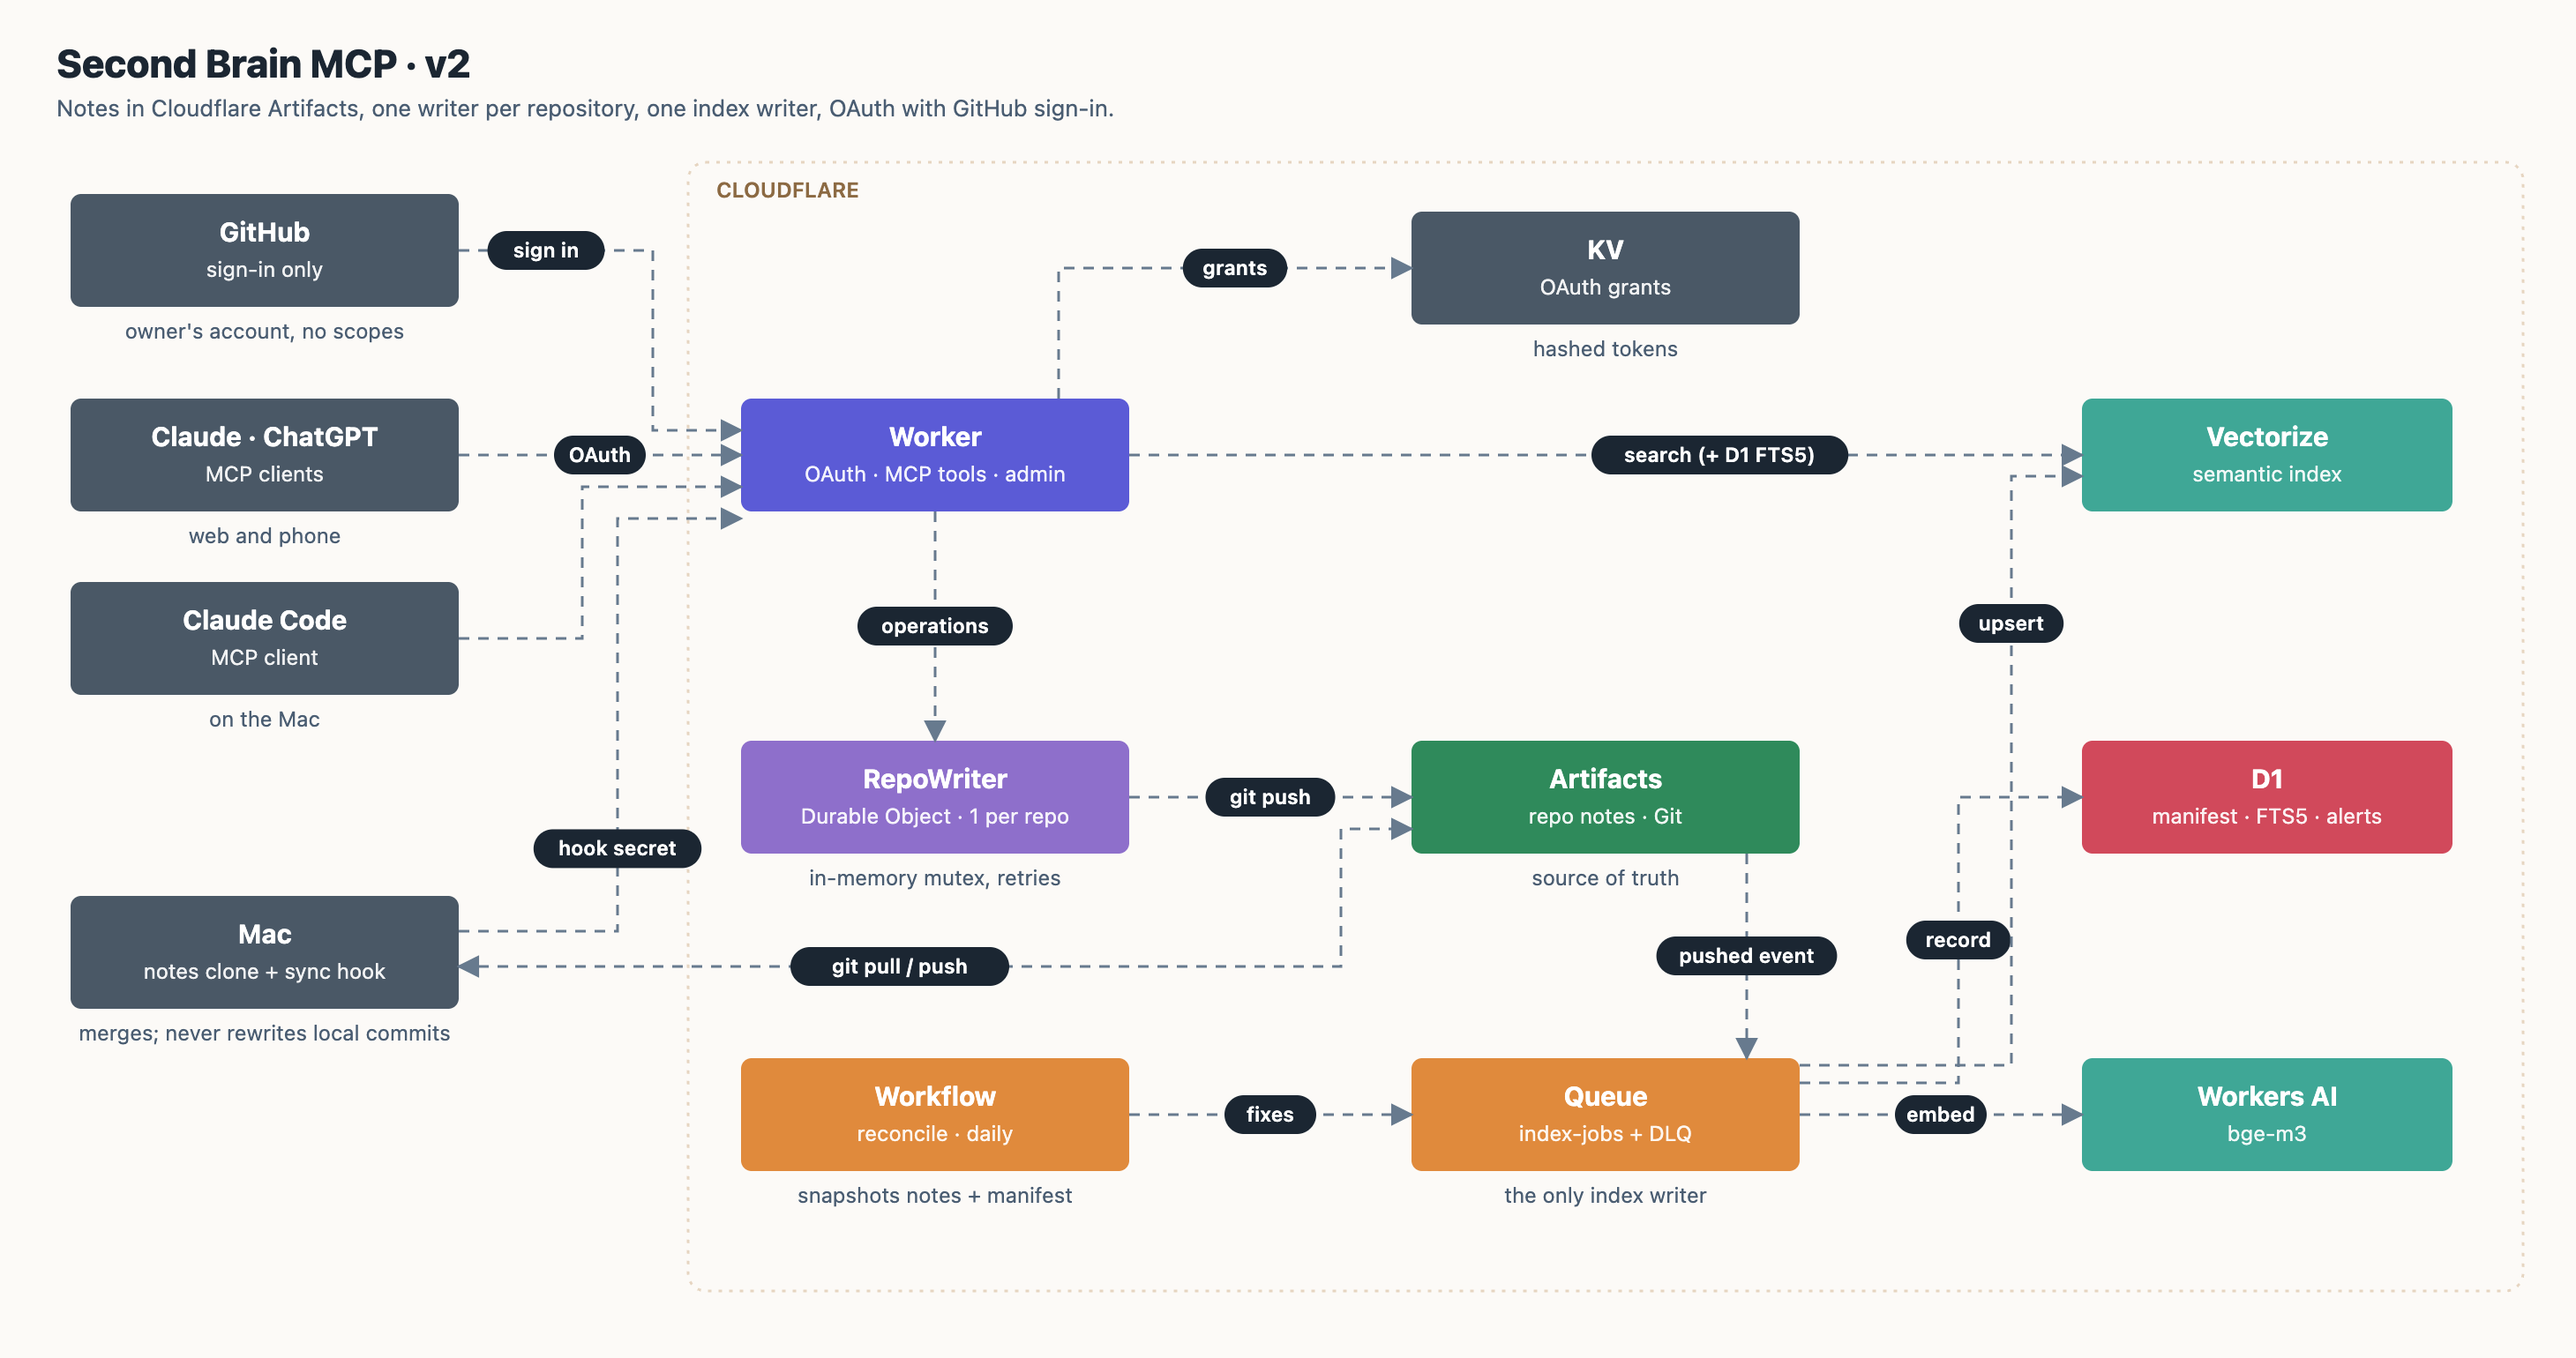
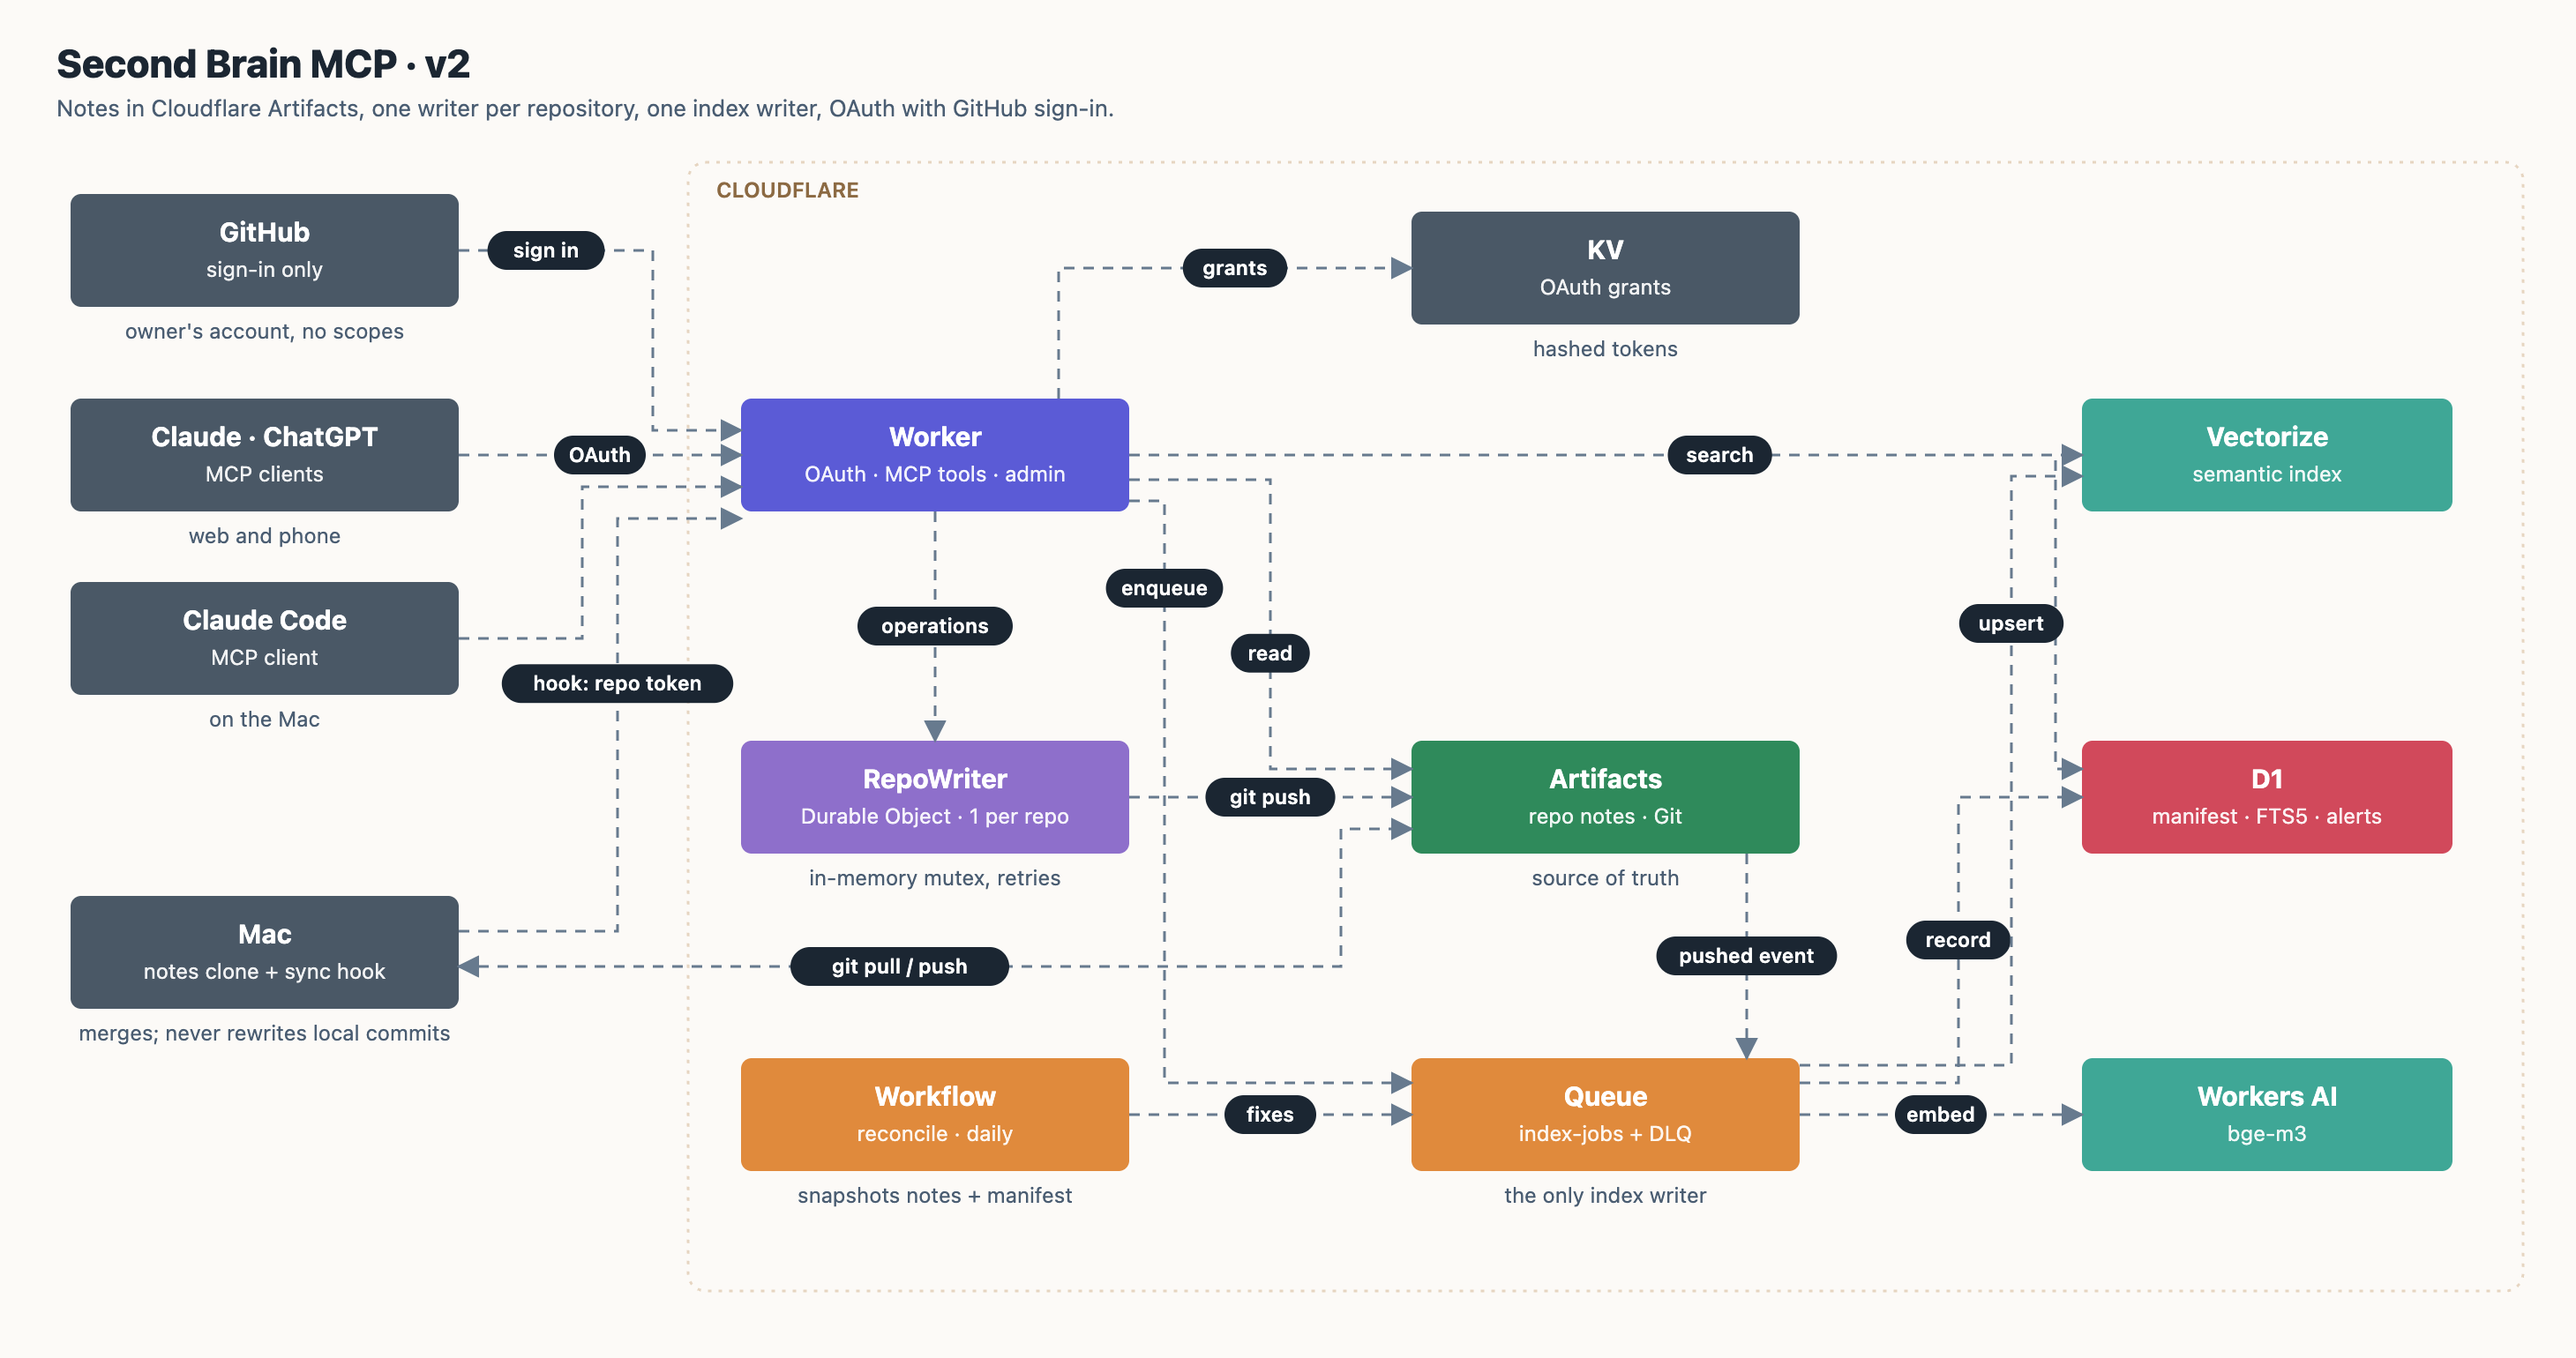
Docs: complete the v2 map and fix wording (review)
v2 map: Worker -> Queue (every write enqueues), Worker -> Artifacts
(reads through the binding), Worker -> D1 (keyword search), and what the
hook gets. CHANGELOG: the redirect allowlist described accurately. v1
'keyword' cell explained; p50 of 10 runs; at-scale wording; v1 map notes
the old names.

diff --git a/docs/architecture/draw.py b/docs/architecture/draw.py
@@ -48,7 +48,7 @@ v1 = []
 v1.append(box(40, 226, "Claude · ChatGPT", "MCP clients", "slate", "web and phone"))
 v1.append(box(40, 330, "Claude Code", "MCP client", "slate", "on the Mac"))
 v1.append(box(40, 508, "Mac", "notes clone + hooks", "slate", "pull on prompts, push after answers"))
-v1.append(box(420, 226, "Worker", "cerebro-mcp · 9 tools", "indigo"))
+v1.append(box(420, 226, "Worker", "cerebro-mcp · 9 tools", "indigo", "v1 names, renamed in v2"))
 v1.append(box(800, 226, "GitHub repo", "segundo-cerebro", "green", "source of truth · REST API"))
 v1.append(box(800, 420, "Workers AI", "bge-m3 embeddings", "teal"))
 v1.append(box(800, 600, "Vectorize", "semantic index", "teal", "derived, rebuildable"))
@@ -83,10 +83,13 @@ v2.append(box(D, 600, "Workers AI", "bge-m3", "teal", w=210))
 v2.append(arrow([(260, 258), (420, 258)], "OAuth"))
 v2.append(arrow([(260, 362), (330, 362), (330, 276), (420, 276)]))
 v2.append(arrow([(260, 142), (370, 142), (370, 244), (420, 244)], "sign in", at=0.45))
-v2.append(arrow([(260, 528), (350, 528), (350, 294), (420, 294)], "hook secret", at=0.2))
+v2.append(arrow([(260, 528), (350, 528), (350, 294), (420, 294)], "hook: repo token", at=0.6))
 # from the Worker
 v2.append(arrow([(600, 226), (600, 152), (800, 152)], "grants", at=0.5))
-v2.append(arrow([(640, 258), (1180, 258)], "search (+ D1 FTS5)", at=0.62))
+v2.append(arrow([(640, 258), (1165, 258), (1165, 436), (1180, 436)]))
+v2.append(arrow([(640, 258), (1180, 258)], "search", at=0.62))
+v2.append(arrow([(640, 272), (720, 272), (720, 436), (800, 436)], "read", at=0.6))
+v2.append(arrow([(640, 284), (660, 284), (660, 614), (800, 614)], "enqueue", at=0.15))
 v2.append(arrow([(530, 290), (530, 420)], "operations"))
 # writes, events, indexing
 v2.append(arrow([(640, 452), (800, 452)], "git push"))

diff --git a/docs/design/at-scale.md b/docs/design/at-scale.md
@@ -9,7 +9,7 @@ v2 serves one person. This note looks at what changes if it served a team, or ma
 
 ## What already scales
 
-- **The unit of work is the repository.** A Git commit covers the whole repository, so writes are serialized per repository by one Durable Object ([ADR 008](../adr/008-one-durable-object-per-repository.md)). Different repositories never contend: one repository per team (or per person) shards writes for free, and each Durable Object lives near its users.
+- **The unit of work is the repository.** A Git commit covers the whole repository, so writes are serialized per repository by one Durable Object ([ADR 008](../adr/008-one-durable-object-per-repository.md)). Different repositories never contend: one repository per team (or per person) shards writes for free, and each Durable Object runs near where it is first requested.
 - **Reads don't touch the writer.** Notes are read through the Artifacts binding; search reads D1 and Vectorize. Read traffic grows without queueing behind writes.
 - **Indexing is idempotent and re-checks the head**, so it can be retried, duplicated or replayed without corrupting the index ([ADR 010](../adr/010-index-manifest-in-d1.md)).
 - **Reconciliation is per run, resumable, and only enqueues** ([ADR 009](../adr/009-queue-for-indexing-workflow-for-reconciliation.md)); one Workflow instance per repository would reconcile each independently.
@@ -18,7 +18,7 @@ v2 serves one person. This note looks at what changes if it served a team, or ma
 
 | Area | v2 (one person) | At scale | Why |
 |---|---|---|---|
-| Write throughput | One repository; ~1.8 writes/s measured in the spike | One repository per team or project | The ceiling is per repository, and a commit is per repository |
+| Write throughput | One repository; ~1.8 writes/s, estimated from ~0.54 s per write in the spike | One repository per team or project | The ceiling is per repository, and a commit is per repository |
 | Indexing order | One Queue consumer (`max_concurrency: 1`) for everything | Per-repository ordering: several consumers, with a per-repository lock (or a Durable Object per repository doing the indexing) | One global consumer becomes the bottleneck; order only matters within a repository |
 | Index isolation | One Vectorize index, one D1 database | A tenant id in vector metadata and every D1 row, filtered on every query; or an index and a database per large tenant | Search must never return another team's notes |
 | Access control | One GitHub account (`OWNER_GITHUB_ID`) | Users and groups (GitHub org or an identity provider via Cloudflare Access), grants scoped to repositories, an audit log per user | Who can read or write which repository becomes the core of the product |

diff --git a/CHANGELOG.md b/CHANGELOG.md
@@ -9,7 +9,7 @@ Built in one day as a series of PRs, each one red tests first, then green, then 
 - **Writes go through one Durable Object per repository** (`RepoWriter`): an in-memory mutex serializes them, the operation is applied inside the lock, a push rejected because the Mac pushed first is re-run on the new tip, and a lost push response is confirmed against the remote before reporting ([ADR 008](docs/adr/008-one-durable-object-per-repository.md), #44).
 - **Indexing runs on a Queue** with retries and a dead-letter queue; the consumer is the only writer of the index, records what it indexed in a D1 manifest, and skips work already done ([ADR 009](docs/adr/009-queue-for-indexing-workflow-for-reconciliation.md), [ADR 010](docs/adr/010-index-manifest-in-d1.md), #46).
 - **`search_notes` is hybrid**: a D1 FTS5 keyword index and Vectorize, fused by reciprocal rank; it no longer reads every note ([ADR 012](docs/adr/012-hybrid-search-with-d1-fts5.md), #53).
-- **OAuth 2.1 with GitHub sign-in** replaces the token in the URL: consent page, exact redirect allowlist, owner-only, per-client grants that can be revoked ([ADR 011](docs/adr/011-oauth-with-github-login.md), #51, #55).
+- **OAuth 2.1 with GitHub sign-in** replaces the token in the URL: consent page, a redirect allowlist (the Claude and ChatGPT connector callbacks, plus loopback for local apps), owner-only, per-client grants that can be revoked ([ADR 011](docs/adr/011-oauth-with-github-login.md), #51, #55).
 - **The Mac sync hook** merges instead of rebasing, so local commits are never rewritten; conflicts keep the remote version and save the local one as a `.conflict` copy; one sync at a time per clone; its own scoped secret (#50).
 - **Infrastructure from the repo**: `wrangler.jsonc` + idempotent `scripts/setup.sh`, English names everywhere, deploy on merge ([ADR 006](docs/adr/006-wrangler-and-a-setup-script-instead-of-terraform.md), #43).
 
@@ -26,11 +26,11 @@ Built in one day as a series of PRs, each one red tests first, then green, then 
 - `read_note` didn't validate paths (#30); `save_idea` overwrote same-day ideas (#31).
 - The sync hook stopped silently on a rebase conflict (#15) and collided across sessions (#16).
 
-### Measured (p50, production)
+### Measured (p50 of 10 runs, production; indicative)
 | | v1 | v2 |
 |---|---|---|
 | Write | 4.1 s | 2.1 s |
-| New note findable by keyword | — | ~12 s |
+| New note findable by keyword | immediate (reads every note) | ~12 s |
 | New note findable by meaning | 122 s | 53 s |
 | `search_notes` | 2.8 s (reads all notes) | 1.5 s (reads none) |
 

diff --git a/README.md b/README.md
@@ -28,12 +28,12 @@ I keep a "second brain": Markdown notes on ideas, projects, decisions and plans.
 
 The full design is in the [v2 spec](docs/spec/v2.md); what v2 changed and fixed is in the [CHANGELOG](CHANGELOG.md).
 
-## Numbers (production, p50)
+## Numbers (production, p50 of 10 runs)
 
 | | v1 | v2 |
 |---|---|---|
 | Write a note | 4.1 s | 2.1 s |
-| New note findable by keyword | — | ~12 s |
+| New note findable by keyword | immediate (reads every note) | ~12 s |
 | New note findable by meaning | 122 s | 53 s |
 | `search_notes` | 2.8 s, reads every note | 1.5 s, reads none |
 
